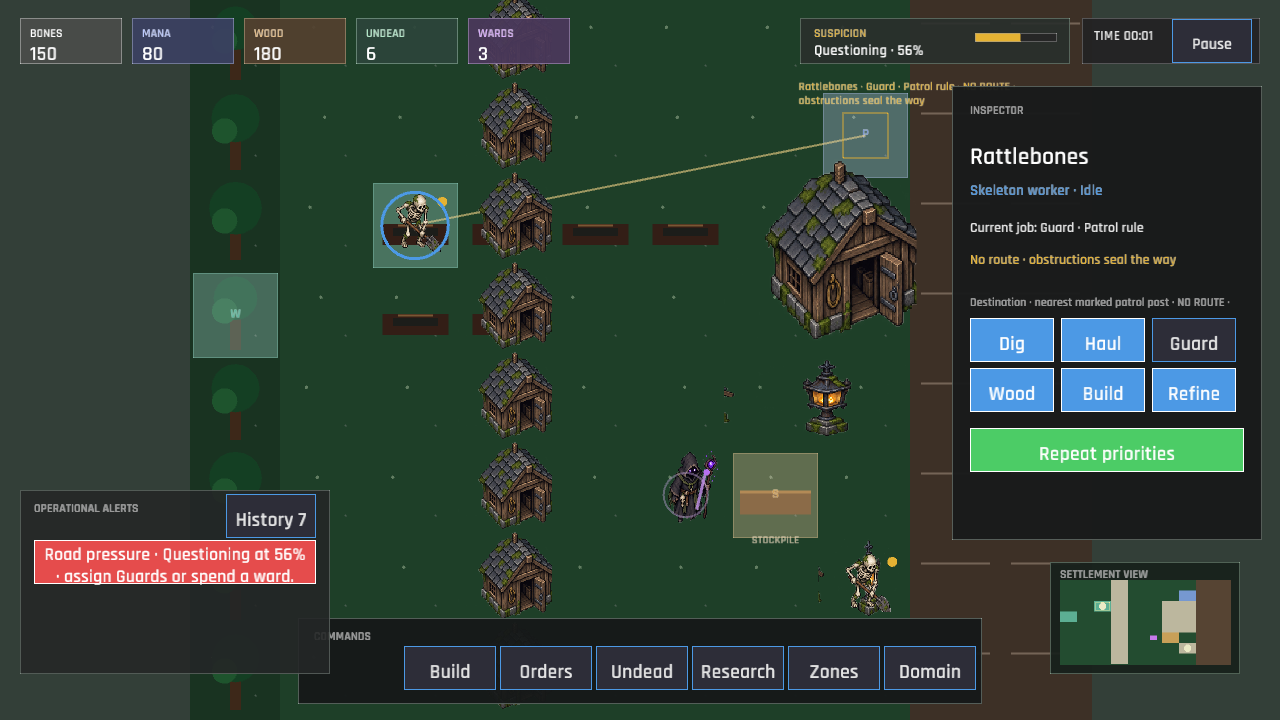
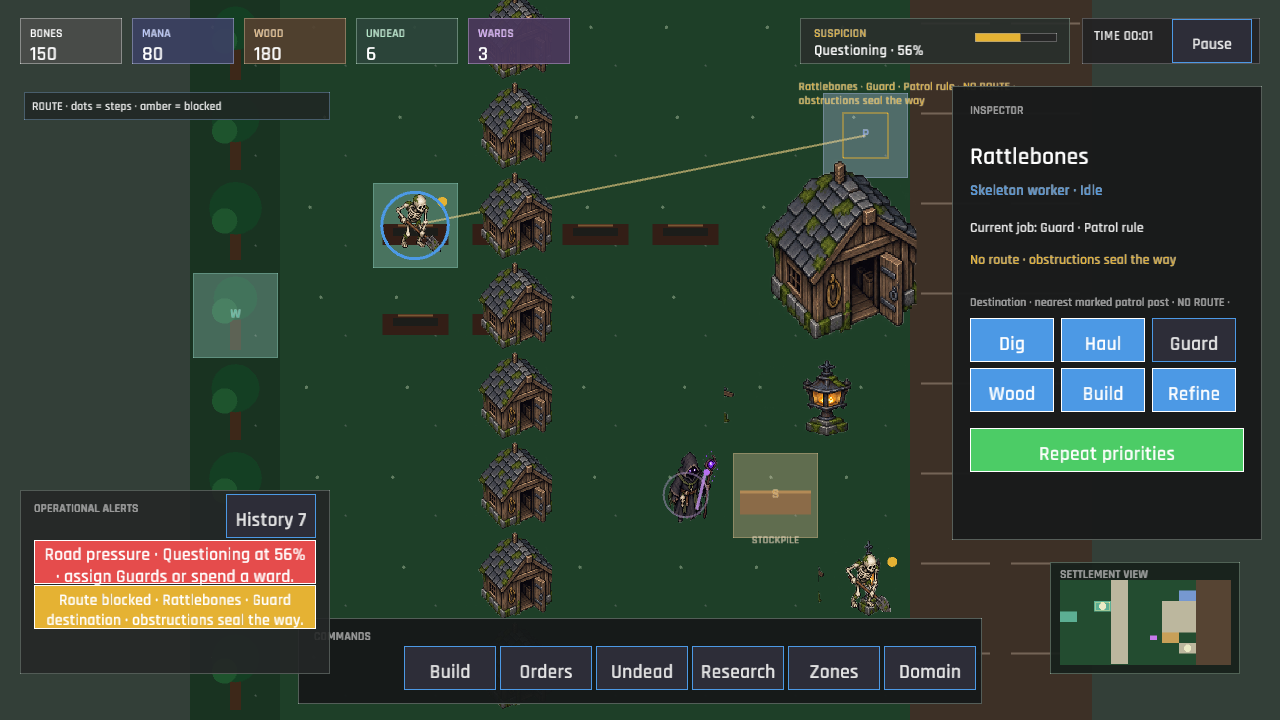
The route marks speak plainly in the dark (route overlay legend)
A compact route legend now appears whenever the Routes overlay is active, explaining step dots and amber blocked markers without requiring keyboard knowledge. Refreshed domain and blocked-route captures verify both viewport sizes.

Changed region(s): [[0.0, 0.7944, 0.25, 0.8861], [0.0312, 0.1222, 0.1875, 0.1528]]

diff --git a/src/ui/world_feedback.rs b/src/ui/world_feedback.rs
@@ -68,6 +68,9 @@ fn draw_resource_pile(center: Vec2, glyph: &str, amount: i32, color: Color) {
 }
 
 pub(super) fn draw_actor_destinations(ctx: &UiContext<'_>, view: &GridView) {
+    if ctx.domain_overlays.routes {
+        draw_route_legend(ctx);
+    }
     for (index, worker) in ctx.session.workforce.workers.iter().enumerate() {
         if ctx.domain_overlays.routes
             || ctx.session.world.selected == Some(Selection::Worker(index))
@@ -107,6 +110,29 @@ pub(super) fn draw_actor_destinations(ctx: &UiContext<'_>, view: &GridView) {
             dark::ACCENT,
         );
     }
+}
+
+fn draw_route_legend(ctx: &UiContext<'_>) {
+    let rect = if ctx.layout.compact {
+        Rect::new(206.0, 146.0, 252.0, 26.0)
+    } else {
+        Rect::new(24.0, 92.0, 306.0, 28.0)
+    };
+    draw_surface(
+        rect,
+        &SurfaceStyle::new(Color::new(0.03, 0.06, 0.045, 0.90))
+            .with_border(1.0, dark::ACCENT.with_alpha(0.54)),
+    );
+    draw_text_block(
+        "ROUTE · dots = steps · amber = blocked",
+        rect.x + 8.0,
+        rect.y + 6.0,
+        rect.w - 16.0,
+        16.0,
+        11.0,
+        0.0,
+        dark::TEXT,
+    );
 }
 
 fn draw_route_hint(ctx: &UiContext<'_>, view: &GridView, worker: &Worker, destination: TilePos) {
